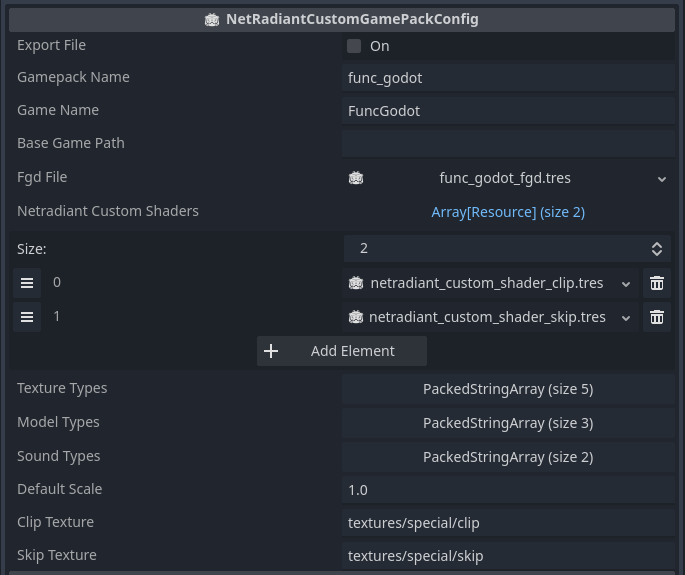
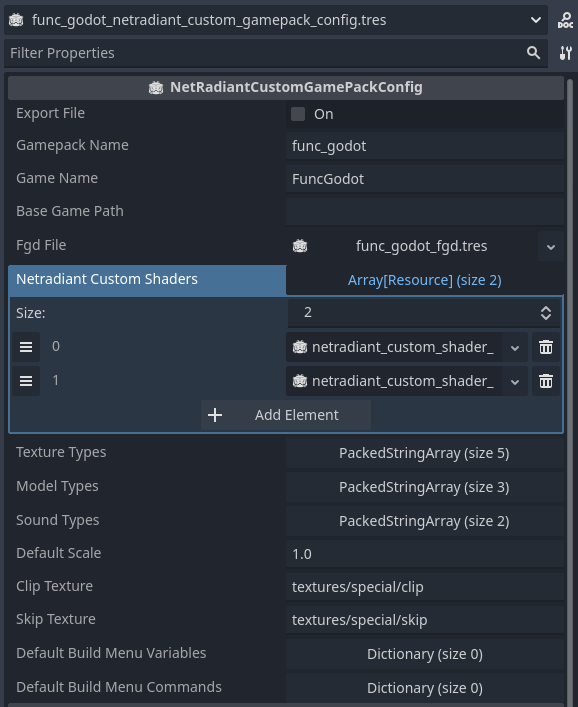
Updated NRC Game Pack Config Reference
Updated image. Added descriptions for default build menu variables and commands.

Changed region(s): [[0.0, 0.0, 1.0, 1.0], [0.4983, 0.2957, 0.5294, 0.3548], [0.4983, 0.7687, 0.5294, 0.7983]]

diff --git a/FuncGodot Manual/pages/ref_netradiant_custom_resources.html b/FuncGodot Manual/pages/ref_netradiant_custom_resources.html
@@ -83,6 +83,27 @@
                 <td>String</td>
                 <td>Skip texture path that gets applied to caulk and nodrawnonsolid shaders.</td>
             </tr>
+            <tr>
+                <td>Default Build Menu Variables</td>
+                <td>Dictionary</td>
+                <td>
+                    Variables to include in the exported gamepack's <i>default_build_menu.xml.</i><br>
+                    Each String key defines a variable name, and its corresponding String value as the literal command-line string 
+                    to execute in place of this variable identifier.<br>
+                    Entries may be referred to by key in <i>default_build_commands</i> values.
+                </td>
+            </tr>
+            <tr>
+                <td>Default Build Menu Commands</td>
+                <td>Dictionary</td>
+                <td>
+                    Commands to include in the exported gamepack's <i>default_build_menu.xml.</i><br>
+                    Keys, specified as a String, define the build option name as you want it to appear in Radiant.<br>
+                    Values represent commands taken within each option. They may be either a String or an Array of String elements 
+                    that will be used as the full command-line text issued by each command within its associated build option key.<br>
+                    They may reference entries in <i>default_build_variables</i> by using brackets, eg: [variable_key_name].
+                </td>
+            </tr>
         </table>
 
         <br><hr>
